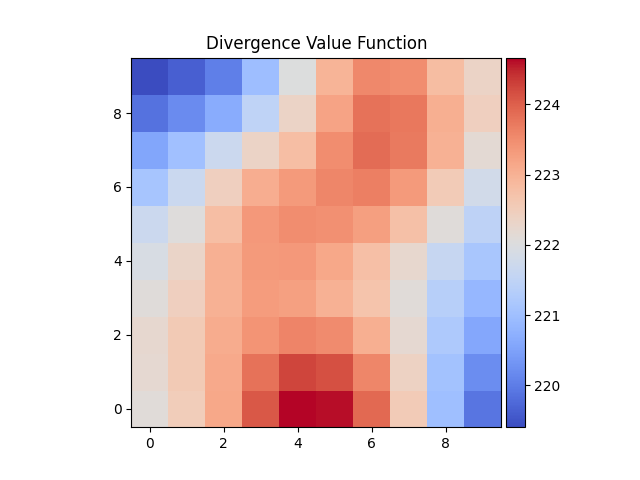
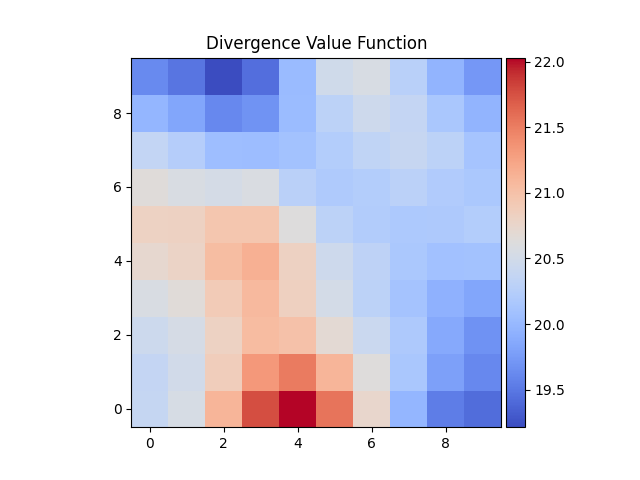
changes

diff --git a/gym_objectworld/solvers/maxent_irl.py b/gym_objectworld/solvers/maxent_irl.py
@@ -18,7 +18,7 @@ def normalize(vals):
 	return (vals - min_val) / (max_val - min_val)
 
 # Main call - Not working yet - why?
-def m_irl(env, trajectories, lr):
+def irl(env, trajectories, lr):
 
 	feature_matrix = env._feature_matrix()
 	n_states, n_features = feature_matrix.shape
@@ -67,7 +67,7 @@ def local_action_probability(action_dim, feature_matrix, transition_prob, reward
 	z_action = np.zeros((n_states, n_actions))
 	p_transition = np.copy(transition_prob)
 
-	p = [np.array(world.transition_prob[:, a, :]) for a in range(n_actions)]
+	p = [np.array(transition_prob[:, a, :]) for a in range(n_actions)]
 	er = np.exp(rewards)*np.eye((n_states))
 
 	zs = np.zeros(n_states)
@@ -109,6 +109,8 @@ def feature_expectations(feature_matrix, trajectories):
 
 	for t in trajectories:
 		for i in range(len(t.transitions())):
+			print(feature_matrix[t.transitions()[i][0]])
+			exit()
 			fe += feature_matrix[t.transitions()[i][0]]
 	return fe/len(trajectories)
 

diff --git a/gym_objectworld/solvers/maxent.py b/gym_objectworld/solvers/maxent.py
@@ -52,10 +52,8 @@ def irl(env, gamma, trajectories, learning_rate, eps=1e-4):
     # Calculate the feature expectations \tilde{phi}.
     feature_expectations = find_feature_expectations(env,
                                                      trajectories)
-    optimiser = O.Sga(lr=O.linear_decay(lr0=0.1))
     # Gradient descent on alpha.
     delta = np.inf
-    optimiser.reset(alpha)
     while delta > eps:
         alpha_old = alpha.copy()
 
@@ -65,8 +63,7 @@ def irl(env, gamma, trajectories, learning_rate, eps=1e-4):
         grad = feature_expectations - feature_matrix.T.dot(expected_svf)
 
         alpha += (learning_rate*grad)
-        optimiser.step(grad)
-
+        
         delta = np.max(np.abs(alpha_old - alpha))
         print(delta)
     return feature_matrix.dot(alpha).reshape((n_states,))

diff --git a/comparative_run.py b/comparative_run.py
@@ -33,7 +33,7 @@ env = ObjectWorldEnv(size+2, 64, 4, 0.3, False)
 transition_matrix = V.convert_transition_array(env)
 
 # Set hyper parameters
-GAMMA = 0.99
+GAMMA = 0.9
 
 # Define divergence function
 def divergence(f, h):
